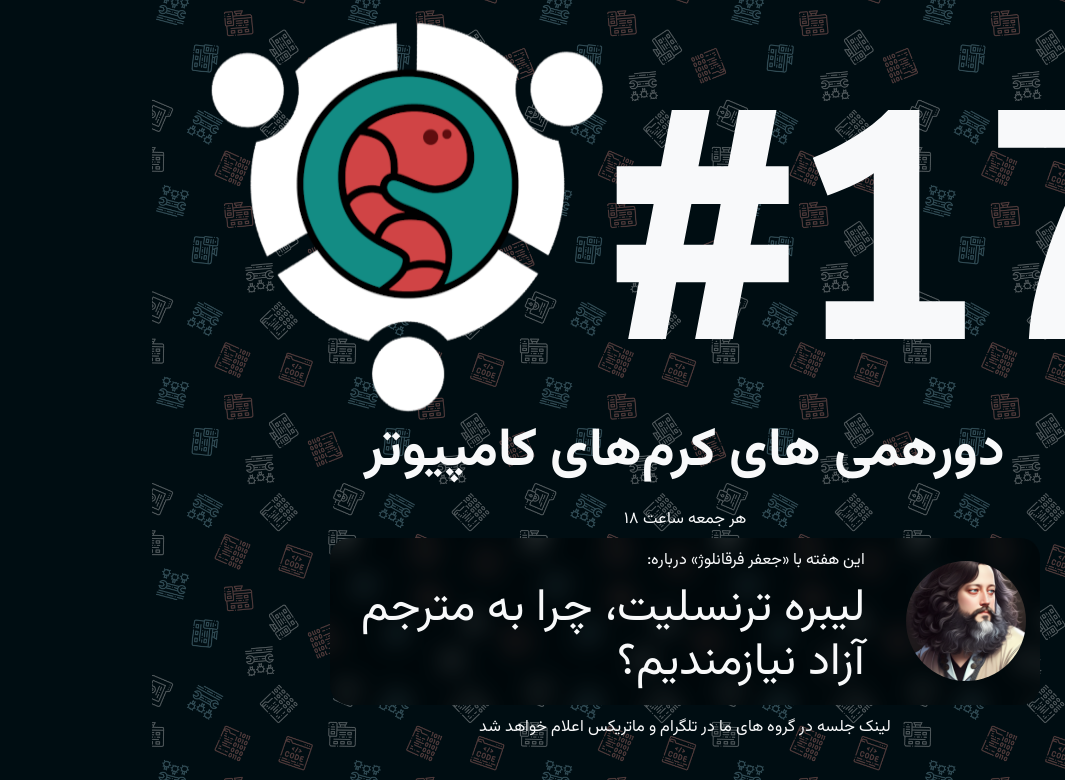
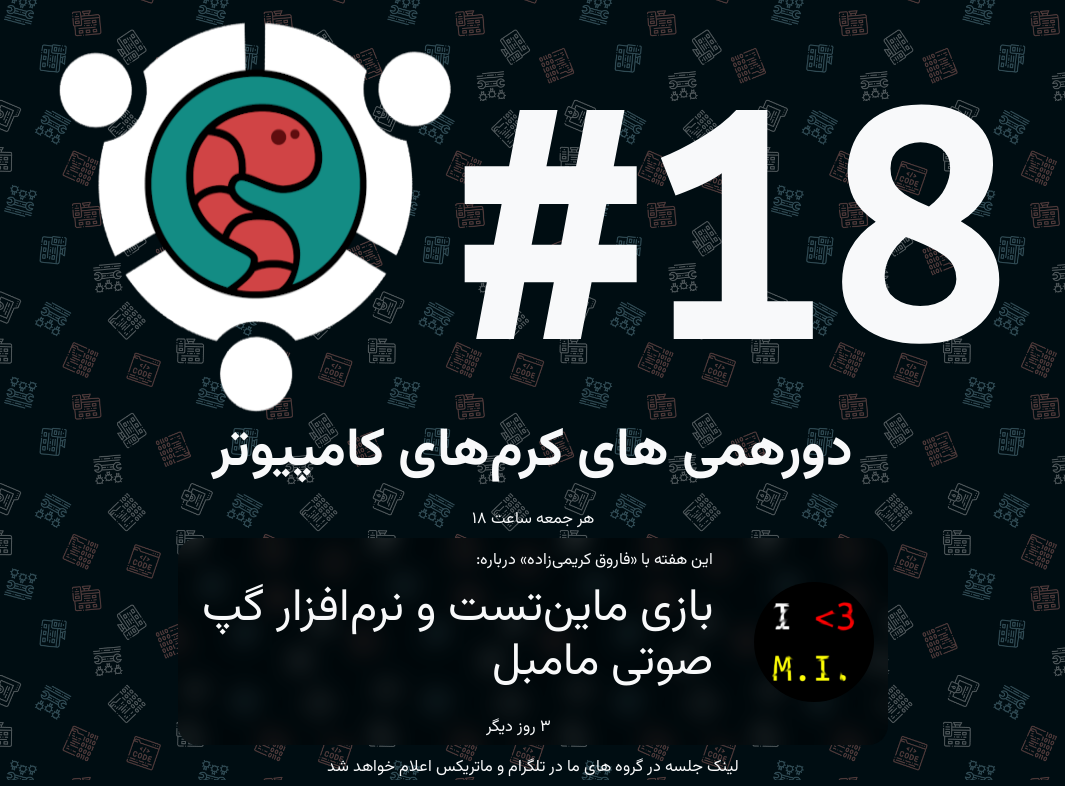
deploy: 41af637ea850e2df22fcd0aee22a9f036d9dc76a

diff --git a/index.html b/index.html
@@ -4,9 +4,9 @@
 <head>
     <meta charset="UTF-8">
     <meta name="viewport" content="width=device-width, initial-scale=1.0">
-    <meta property="og:title" content="#17 - دورهمی کرمهای کامپیوتر" />
+    <meta property="og:title" content="#18 - دورهمی کرمهای کامپیوتر" />
     <meta name="og:description" content="دورهمی های کرمهای کامپیوتر - جمعه هر هفته ساعت شش
- این هفته با ارائه «جعفر فرقانلوژ» درباره لیبره ترنسلیت، چرا به مترجم آزاد نیازمندیم؟">
+ این هفته با ارائه «فاروق کریمیزاده» درباره بازی ماینتست و نرمافزار گپ صوتی مامبل">
     <meta property="og:url" content="https://meet.pcworms.ir" />
     <meta property="og:image" content="https://meet.pcworms.ir/preview.png" />
     <title>دورهمی های کرم های کامپیوتر</title>
@@ -20,7 +20,7 @@
         rel="stylesheet">
     <script>
         // Set the date we're counting down to
-        var countDownDate = new Date("Feb 09, 2024 18:00:00").getTime();
+        var countDownDate = new Date("Feb 16, 2024 18:00:00").getTime();
         var finishDate = countDownDate + (1.5 * 3600 * 1000);
 
         // Update the count down every 1 second
@@ -84,7 +84,7 @@
     <div class="container-fluid">
         <div class="row mt-2 text-center">
             <div class="col d-flex  align-items-center justify-content-center">
-                <span class="big-text d-inline-block">#17</span>
+                <span class="big-text d-inline-block">#18</span>
                 <img class="logo" src="./assets/meeting-logo.png" alt="">
             </div>
         </div>
@@ -97,12 +97,12 @@
         <div class="row justify-content-center">
             <div class="col-12 col-sm-10 col-md-8 p-2 subject-bg">
                 <div class=" row align-items-center">
-                    <div class="col-auto float-start text-center"><img src="assets&#x2F;avatars&#x2F;mehr32.png" class="profile"></div>
+                    <div class="col-auto float-start text-center"><img src="assets&#x2F;avatars&#x2F;farooqkz.png" class="profile"></div>
                     <div class="col">
                         <small class="speaker d-block">
-                            این هفته با «جعفر فرقانلوژ» درباره:
+                            این هفته با «فاروق کریمیزاده» درباره:
                         </small>
-                        <h2 class="subject">لیبره ترنسلیت، چرا به مترجم آزاد نیازمندیم؟</h2>
+                        <h2 class="subject">بازی ماینتست و نرمافزار گپ صوتی مامبل</h2>
                         <div class="text-center">
                             <small class="time" id="counter"></small>
                         </div>

diff --git a/post.html b/post.html
@@ -4,9 +4,9 @@
 <head>
     <meta charset="UTF-8">
     <meta name="viewport" content="width=device-width, initial-scale=1.0">
-    <meta property="og:title" content="#17 - دورهمی کرمهای کامپیوتر" />
+    <meta property="og:title" content="#18 - دورهمی کرمهای کامپیوتر" />
     <meta name="og:description" content="دورهمی های کرمهای کامپیوتر - جمعه هر هفته ساعت شش
- این هفته با ارائه «جعفر فرقانلوژ» درباره لیبره ترنسلیت، چرا به مترجم آزاد نیازمندیم؟">
+ این هفته با ارائه «فاروق کریمیزاده» درباره بازی ماینتست و نرمافزار گپ صوتی مامبل">
     <meta property="og:url" content="https://meet.pcworms.ir" />
     <meta property="og:image" content="https://meet.pcworms.ir/preview.png" />
     <title>دورهمی های کرم های کامپیوتر</title>
@@ -20,7 +20,7 @@
         rel="stylesheet">
     <script>
         // Set the date we're counting down to
-        var countDownDate = new Date("Feb 09, 2024 18:00:00").getTime();
+        var countDownDate = new Date("Feb 16, 2024 18:00:00").getTime();
         var finishDate = countDownDate + (1.5 * 3600 * 1000);
 
         // Update the count down every 1 second
@@ -77,7 +77,7 @@
     <div class="container-fluid">
         <div class="row mt-2 text-center">
             <div class="col d-flex  align-items-center justify-content-center">
-                <span class="big-text d-inline-block">#17</span>
+                <span class="big-text d-inline-block">#18</span>
                 <img class="logo" src="./assets/meeting-logo.png" alt="">
             </div>
         </div>
@@ -90,12 +90,12 @@
         <div class="row justify-content-center">
             <div class="col-12 col-sm-10 col-md-8 p-2 subject-bg">
                 <div class=" row align-items-center">
-                    <div class="col-auto float-start text-center"><img src="assets&#x2F;avatars&#x2F;mehr32.png" class="profile"></div>
+                    <div class="col-auto float-start text-center"><img src="assets&#x2F;avatars&#x2F;farooqkz.png" class="profile"></div>
                     <div class="col">
                         <small class="speaker d-block">
-                            این هفته با «جعفر فرقانلوژ» درباره:
+                            این هفته با «فاروق کریمیزاده» درباره:
                         </small>
-                        <h2 class="subject">لیبره ترنسلیت، چرا به مترجم آزاد نیازمندیم؟</h2>
+                        <h2 class="subject">بازی ماینتست و نرمافزار گپ صوتی مامبل</h2>
                         <div class="text-center">
                             <small class="time" id="counter"></small>
                         </div>

diff --git a/preview.html b/preview.html
@@ -21,16 +21,16 @@
         <div class="row mt-2 text-center">
             <div class="col d-flex  align-items-center justify-content-center">
                 <img class="logo" src="./assets/meeting-logo.png" alt="">
-                <span class="big-text d-inline-block">#17</span>
+                <span class="big-text d-inline-block">#18</span>
             </div>
         </div>
         <div class="row justify-content-center">
             <div class="col-12 col-md-10 p-2"">
                 <div class=" row align-items-center">
                 <div class="col">
-                    <h2 class="subject" dir="rtl">لیبره ترنسلیت، چرا به مترجم آزاد نیازمندیم؟</h1>
+                    <h2 class="subject" dir="rtl">بازی ماینتست و نرمافزار گپ صوتی مامبل</h1>
                 </div>
-                <div class="col-auto float-start text-center"><img src="assets&#x2F;avatars&#x2F;mehr32.png" class="profile"></div>
+                <div class="col-auto float-start text-center"><img src="assets&#x2F;avatars&#x2F;farooqkz.png" class="profile"></div>
             </div>
         </div>
     </div>
